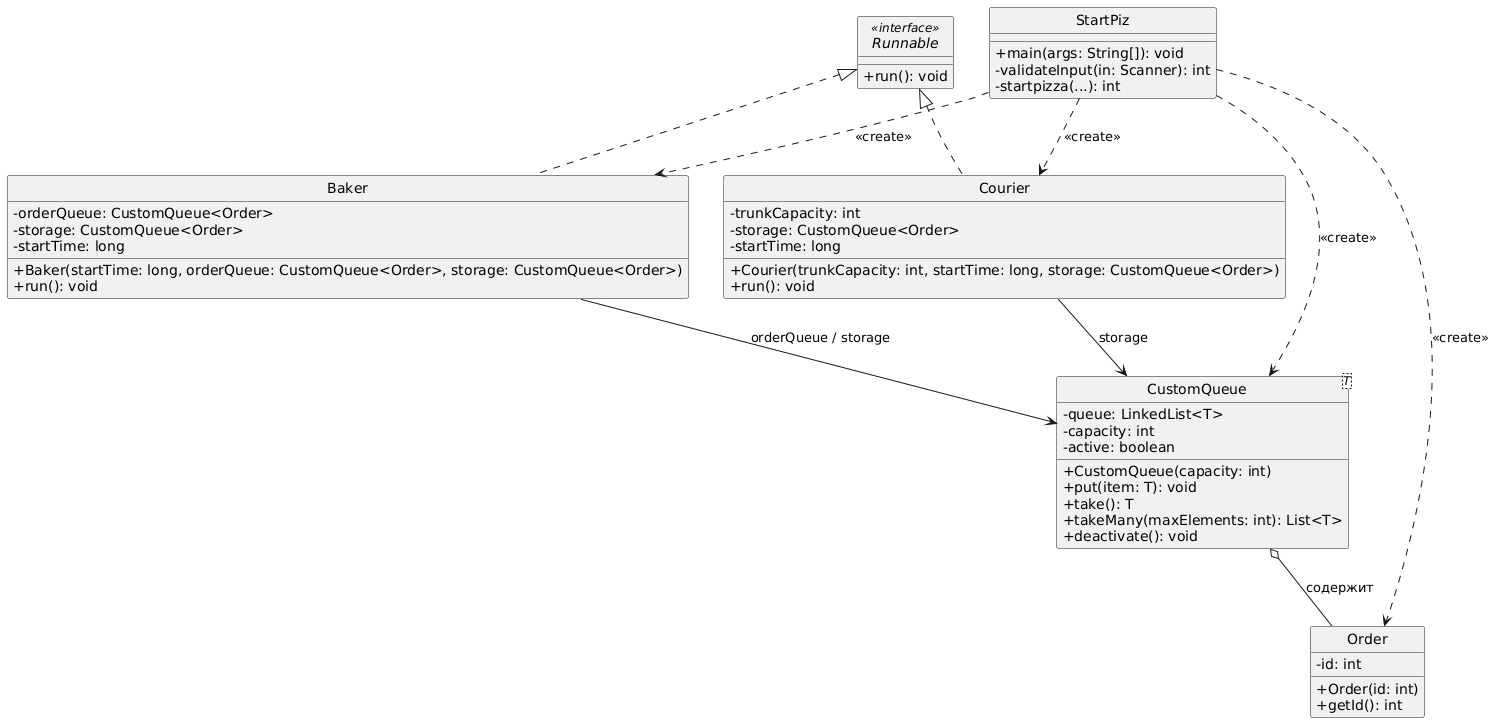
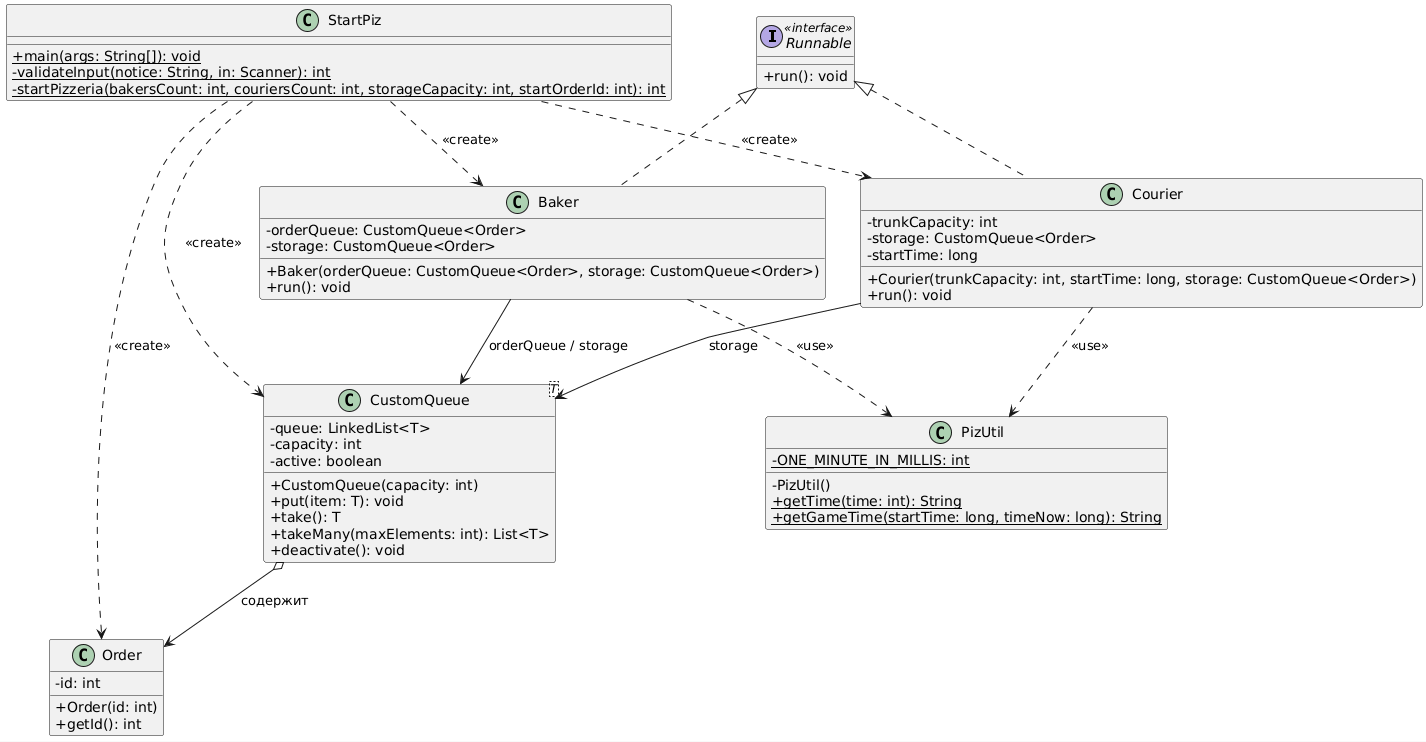
Work after rewiew

diff --git a/Task_2_2_1/src/main/java/ru/nsu/tokarev4/StartPiz.java b/Task_2_2_1/src/main/java/ru/nsu/tokarev4/StartPiz.java
@@ -85,6 +85,16 @@ public class StartPiz {
         return currentOrderId[0]; // Возвращаем ID для следующего дня
     }
 
+    /**
+     * Синхронизирует правильное завершение рабочего дня.
+     * Поочередно дожидается завершения генерации заказов, окончания работы всех пекарей,
+     * после чего деактивирует склад и ожидает возвращения всех курьеров с доставки.
+     *
+     * @param orderGenerator поток, генерирующий новые заказы.
+     * @param bakerThreads   список потоков работающих пекарей.
+     * @param storage        склад готовых пицц.
+     * @param courierThreads список потоков работающих курьеров.
+     */
     private static void endWorkDay(Thread orderGenerator, List<Thread> bakerThreads, CustomQueue<Order> storage, List<Thread> courierThreads) {
         try {
             // Ждем завершения генерации заказов
@@ -108,6 +118,17 @@ public class StartPiz {
         }
     }
 
+    /**
+     * Создает и запускает поток генерации новых заказов.
+     * Заказы поступают в течение заданного игрового времени (14 секунд) со случайными интервалами.
+     * По истечении времени очередь заказов деактивируется.
+     *
+     * @param startTime      системное время начала смены в миллисекундах.
+     * @param orderQueue     очередь, в которую помещаются новые заказы.
+     * @param currentOrderId массив из одного элемента, содержащий текущий глобальный номер заказа
+     * (используется массив для передачи значения по ссылке и его изменения внутри лямбды).
+     * @return запущенный поток генератора заказов.
+     */
     private static Thread buildOrderGenerator(long startTime, CustomQueue<Order> orderQueue, int [] currentOrderId) {
         Thread orderGenerator = new Thread(() -> {
             while (System.currentTimeMillis() - startTime < 14000) {
@@ -129,6 +150,14 @@ public class StartPiz {
         return orderGenerator;
     }
 
+    /**
+     * Создает и запускает поток курьеров.
+     * У каждого курьера генерируется случайный размер багажника от 1 до 4.
+     * @param couriersCount количество курьеров.
+     * @param startTime     время начала работы для логирования.
+     * @param storage       склад готовых пицц.
+     * @return              поток готовых курьеров.
+     */
     private static List<Thread> startCouriers(int couriersCount, long startTime, CustomQueue<Order> storage) {
         List<Thread> courierThreads = new ArrayList<>();
         for (int i = 0; i < couriersCount; i++) {
@@ -140,6 +169,13 @@ public class StartPiz {
         return courierThreads;
     }
 
+    /**
+     * Создает и запускает поток пекарей.
+     * @param bakersCount количество пекарей.
+     * @param orderQueue  очередь заказов.
+     * @param storage     склад для готовых пицц.
+     * @return            поток готовых пекарей
+     */
     private static List<Thread> startBakers(int bakersCount, CustomQueue<Order> orderQueue, CustomQueue<Order> storage) {
         List<Thread> bakerThreads = new ArrayList<>();
         for (int i = 0; i < bakersCount; i++) {

diff --git a/Task_2_2_1/src/main/java/ru/nsu/tokarev4/PizUtil.java b/Task_2_2_1/src/main/java/ru/nsu/tokarev4/PizUtil.java
@@ -5,12 +5,12 @@ public class PizUtil {
     /**
      * Рассчитывает игровое время на основе прошедших миллисекунд от начала смены.
      *
-     * @param deliveryTime время доставки (если 0, выводит текущее игровое время).
+     * @param time время доставки (если 0, выводит текущее игровое время).
      * @return отформатированная строка со временем.
      */
 
-    public static String getGameTime(int deliveryTime) {
-        return (deliveryTime / ONE_MINUTE_IN_MILLIS + " мин");
+    public static String getTime(int time) {
+        return (time / ONE_MINUTE_IN_MILLIS + " мин");
     }
 
     public static String getGameTime(long startTime, long timeNow) {

diff --git a/Task_2_2_1/src/main/java/ru/nsu/tokarev4/Baker.java b/Task_2_2_1/src/main/java/ru/nsu/tokarev4/Baker.java
@@ -1,7 +1,5 @@
 package ru.nsu.tokarev4;
 
-import static ru.nsu.tokarev4.PizUtil.getGameTime;
-
 /**
  * Класс, описывающий работу пекаря.
  * Пекарь берет заказ из очереди, готовит его случайное время
@@ -34,7 +32,7 @@ public class Baker implements Runnable {
                 // 2. Генерируем уникальное время готовки для конкретно этого заказа от 200 до 800 мс
                 int cookingTime = 200 + (int) (Math.random() * 601);
 
-                System.out.println("[" + order.getId() + "] Готовится (Время готовки: " + getGameTime(cookingTime) + ")");
+                System.out.println("[" + order.getId() + "] Готовится (Время готовки: " + PizUtil.getTime(cookingTime) + ")");
 
                 // 3. Имитируем процесс готовки
                 Thread.sleep(cookingTime);

diff --git a/Task_2_2_1/src/main/java/ru/nsu/tokarev4/Courier.java b/Task_2_2_1/src/main/java/ru/nsu/tokarev4/Courier.java
@@ -37,7 +37,7 @@ public class Courier implements Runnable {
                 int deliveryTime = 100 + (int) (Math.random() * 201);
                 for (Order order : trunk) {
                     System.out.println("[" + order.getId() + "] В доставке (Время доставки: " +
-                            getGameTime(deliveryTime) +")");
+                            PizUtil.getTime(deliveryTime) +")");
                 }
                 Thread.sleep(deliveryTime);
 

diff --git a/Task_2_2_1/README.md b/Task_2_2_1/README.md
@@ -1,7 +1,7 @@
 # Пиццерия
 
-Модель пиццерии. Пиццерия представлена в виде набора пекарей и курьеров. Заказ пиццы попадает в оцередь заказов.
-Повар берет следующий заказ. Далее заказ поступает на склад. Далее курьер доставляет заказ.
+Модель пиццерии. Пиццерия представлена в виде набора пекарей и курьеров. Заказ пиццы попадает в очередь заказов.
+Повар берет следующий заказ. Далее заказ поступает на склад. Курьер его забирает и выполняет доставку.
 
 ## Структура классов
 